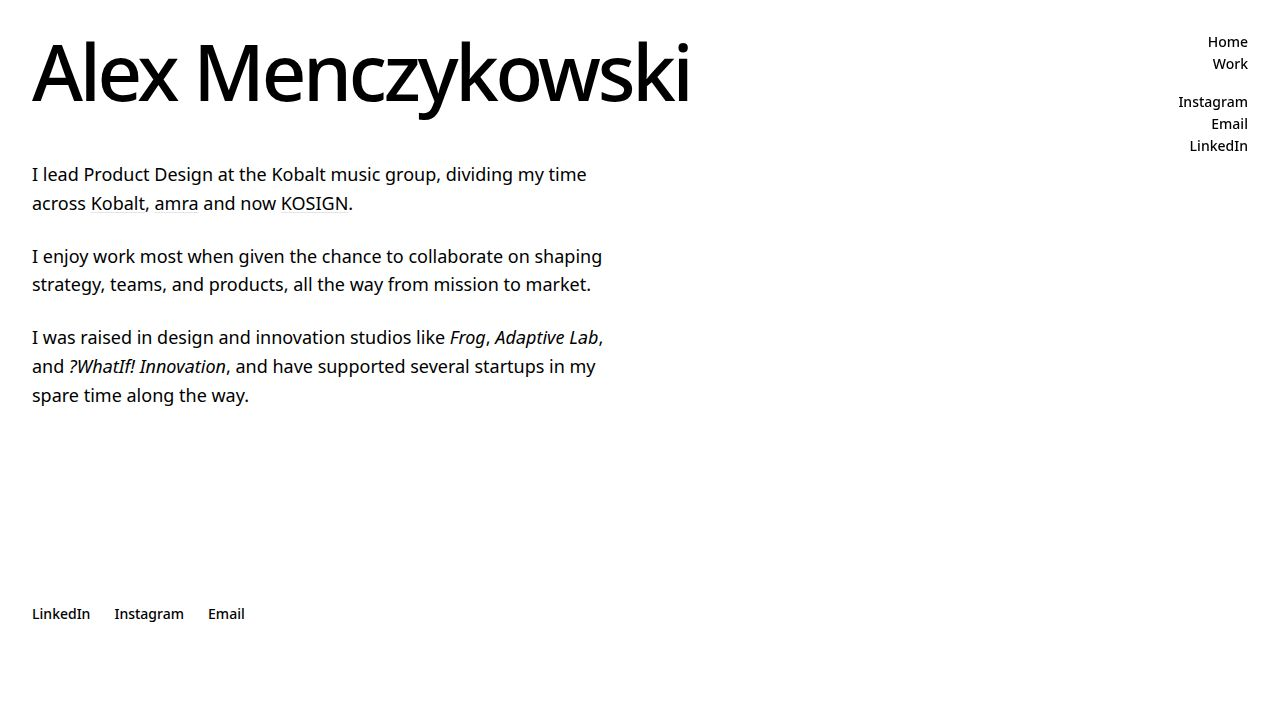
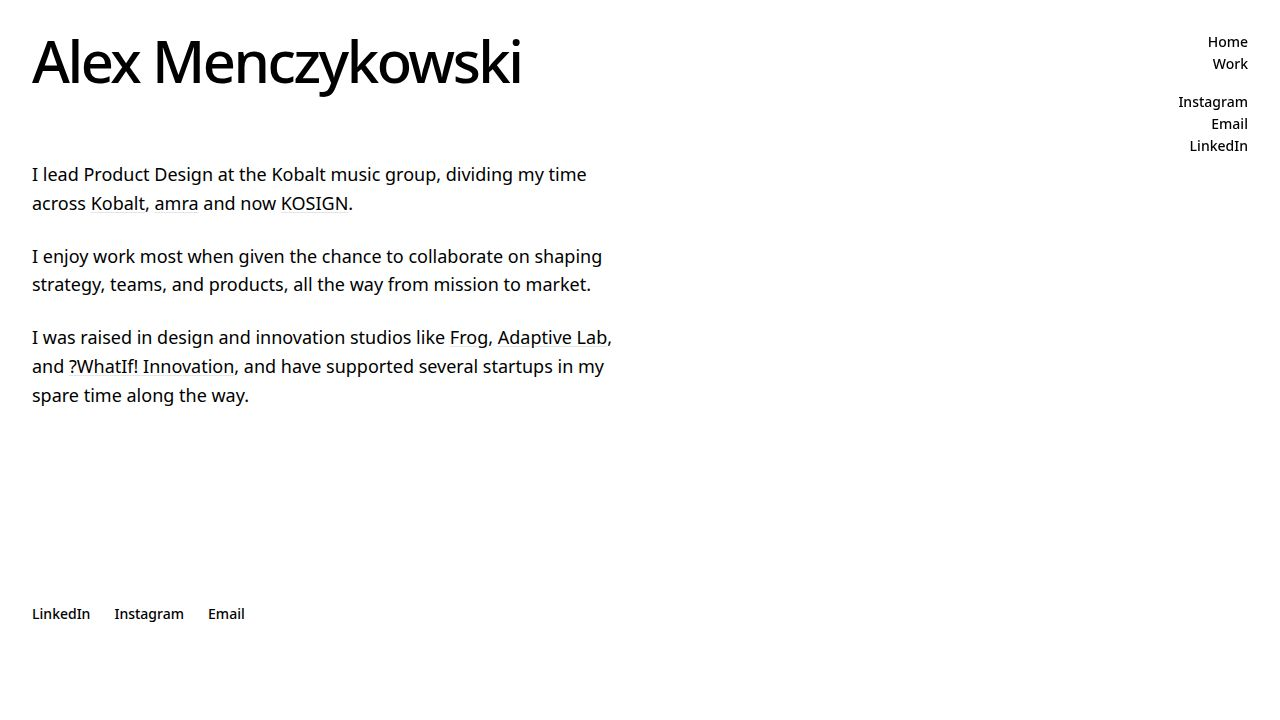
Reduce main header text size on desktop views
Adjusted the H1 font size on desktop from 78px to 58px in client/src/index.css.

Replit-Commit-Author: Agent
Replit-Commit-Session-Id: ce9cedc7-5120-48ae-9af4-1a7c6595939e
Replit-Commit-Checkpoint-Type: full_checkpoint
Replit-Commit-Event-Id: e1201e1a-64af-4b8c-895a-5a1ba7dc12af
Replit-Commit-Screenshot-Url: https://storage.googleapis.com/screenshot-production-us-central1/4d3f69b8-740a-4d87-9856-025b51f3df6c/ce9cedc7-5120-48ae-9af4-1a7c6595939e/QEQhCAN
Replit-Helium-Checkpoint-Created: true

Changed region(s): [[0.0, 0.0611, 0.5625, 0.1833], [0.0625, 0.4583, 0.4688, 0.5194]]

diff --git a/client/src/index.css b/client/src/index.css
@@ -34,7 +34,7 @@
 
 /* Typography System */
 h1 {
-  @apply font-google text-[44px] sm:text-[54px] lg:text-[78px] font-medium leading-[0.9] tracking-[-0.0425em] text-primary;
+  @apply font-google text-[44px] sm:text-[54px] lg:text-[58px] font-medium leading-[0.9] tracking-[-0.0425em] text-primary;
 }
 
 h2 {
